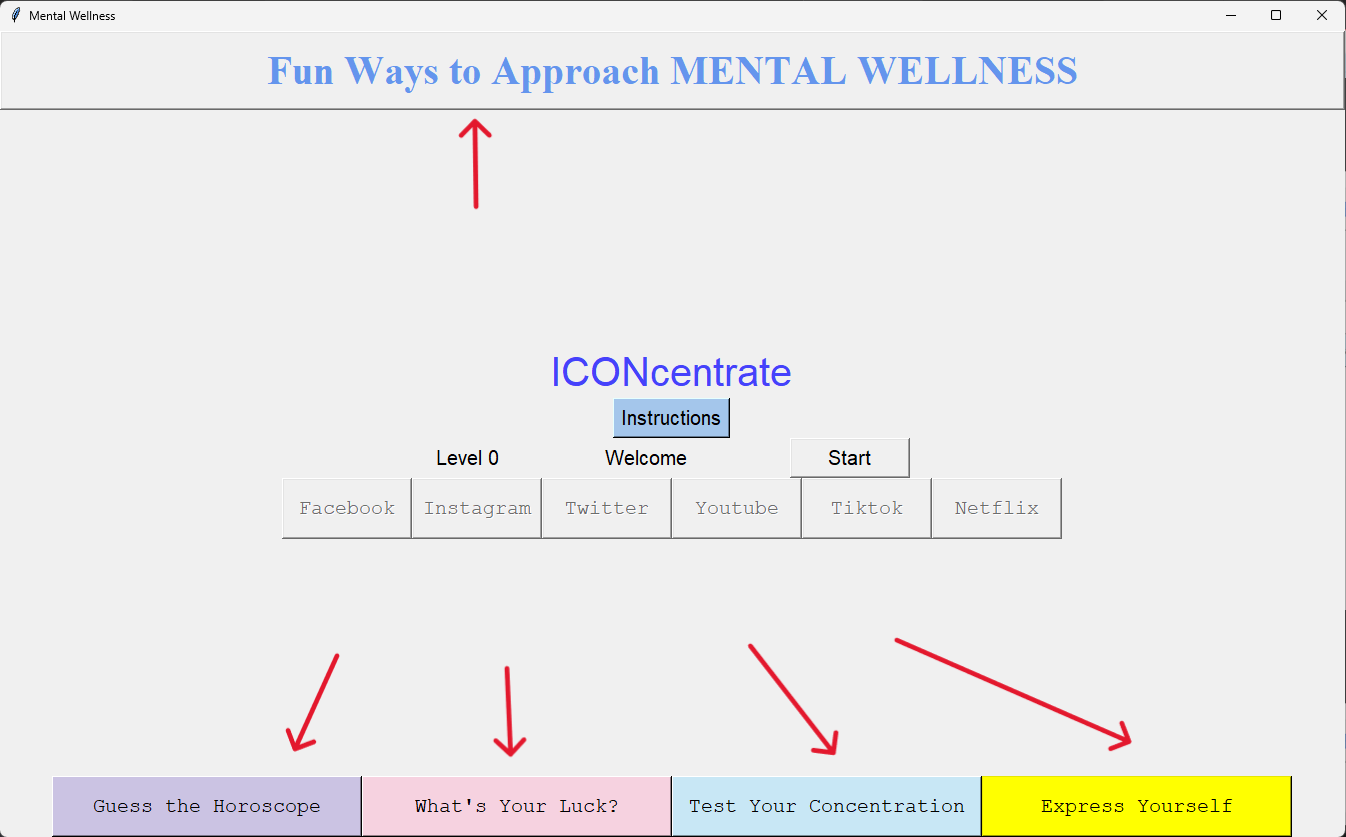
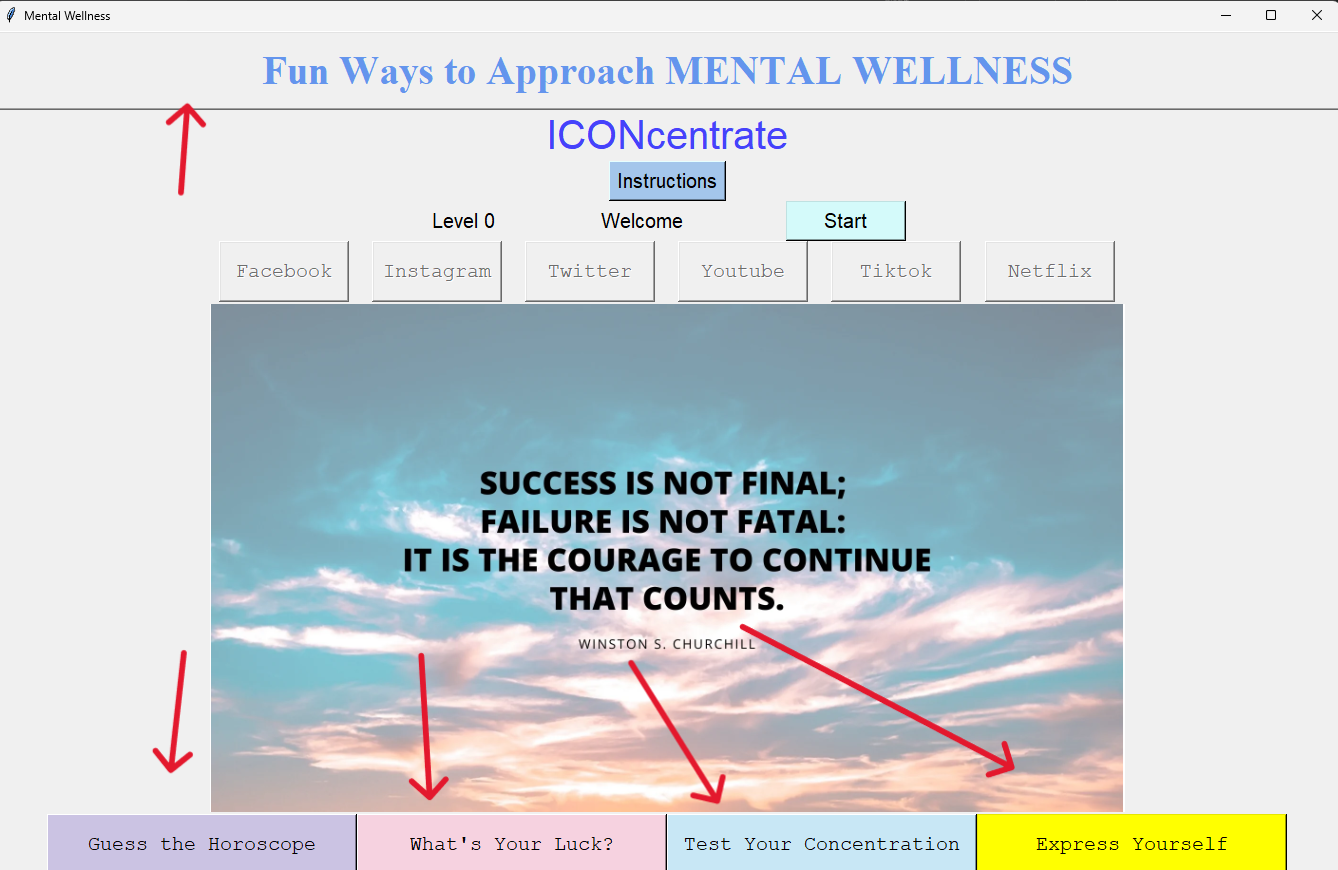
Updated focus documentation

diff --git a/README.md b/README.md
@@ -551,7 +551,7 @@ If you guessed the wrong icon, a message box will appear to notify you that you 
 
 <br>
 
-If you guessed a correct icon, you will move on to the next level, and you can click the start button to display the next icon on the polariser.
+If you guessed a correct icon, you will move on to the next level, and you can click the start button to display the next icon on the polariser. A random quote will also appear below.
 
 ![](Demo%20Pics/IconNext.png)
 *Next level*
